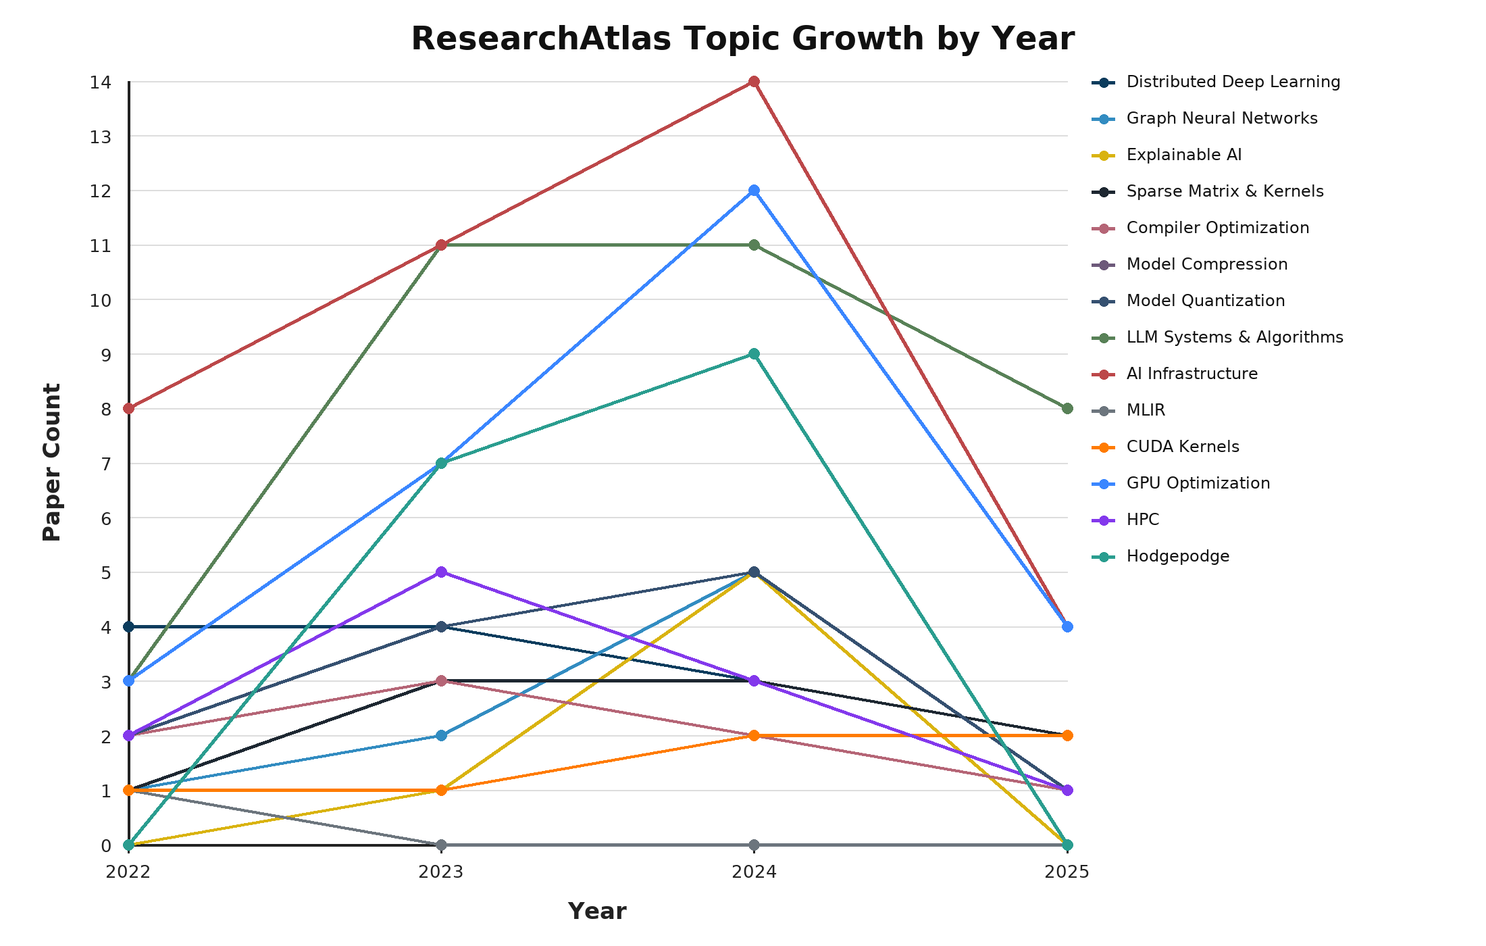
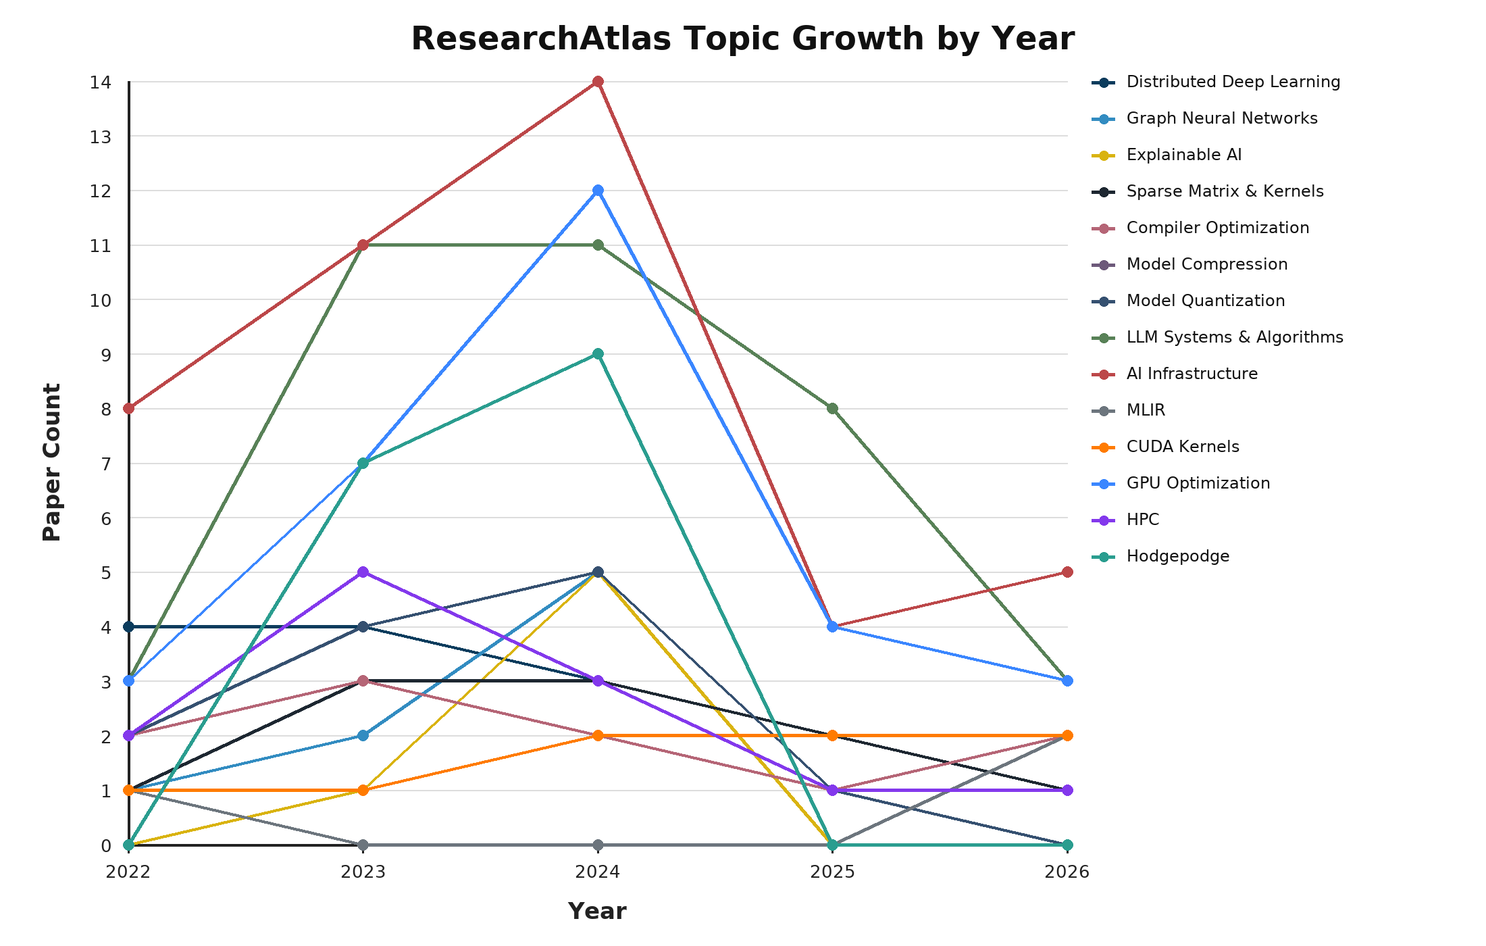
Add papers for 2026 on AI systems and compilers

diff --git a/figures/generate_topic_growth.py b/figures/generate_topic_growth.py
@@ -11,7 +11,9 @@ FIGURES_DIR = ROOT / "figures"
 OUTPUT_PATH = FIGURES_DIR / "topic_growth_by_year.png"
 TOPICS_PATH = ROOT / "TOPICS.md"
 
-YEARS = ["2022", "2023", "2024", "2025"]
+YEARS = sorted(
+    [path.name for path in ROOT.iterdir() if path.is_dir() and re.fullmatch(r"20\d{2}", path.name)]
+)
 COLORS = [
     "#0B3C5D",
     "#328CC1",
@@ -60,7 +62,7 @@ def load_topics() -> list[str]:
 
 
 def count_topics(topics: list[str]) -> dict[str, list[int]]:
-    counts = {topic: [0, 0, 0, 0] for topic in topics}
+    counts = {topic: [0 for _ in YEARS] for topic in topics}
     for paper_file in sorted(ROOT.glob("20*/**/PAPERS.md")):
         year = paper_file.parts[-3]
         if year not in YEARS:

diff --git a/2026/Compiler/PAPERS.md b/2026/Compiler/PAPERS.md
@@ -1,0 +1,67 @@
+# 2026 Compiler Papers
+
+## [PolyBlocks: A Compiler Infrastructure for AI Chips and Programming Frameworks]
+
+- **Authors:** Uday Bondhugula, Akshay Baviskar, Navdeep Katel, Vimal Patel, Anoop JS, Arnab Dutta
+- **Venue:** arXiv 2026
+- **Year:** 2026
+- **Tags:** Compiler Optimization, MLIR, AI Infrastructure
+- **Paper Link:** https://arxiv.org/abs/2603.06731
+- **Code Link:** N/A
+
+### Short Summary
+PolyBlocks presents a modular MLIR-based compiler infrastructure intended to be reusable across multiple AI frameworks and target chips. The work centers on pass pipelines that compose loop/SSA transformations with lightweight affine analysis and analytical cost models. It includes multi-level tiling, fusion, scratchpad usage, matrix-unit mapping, and attention-layer fusion among its key optimizations. The design goal is to minimize per-chip compiler reimplementation by reusing common infrastructure and specializing pipelines where needed. The paper evaluates PyTorch and JAX JIT scenarios on NVIDIA GPUs to compare with mainstream compiler stacks. For this atlas, PolyBlocks is a 2026 compiler contribution with direct relevance to MLIR-centered AI code generation.
+
+### Core Innovation
+- Reusable MLIR pass-pipeline architecture for both AI frameworks and heterogeneous AI chips.
+- Analytical-model-guided transformation selection over loop-nest and SSA representations.
+- Emphasis on reusable infrastructure rather than one-off backend-specific optimization logic.
+
+### Technical Approach
+- High-level framework graphs are lowered into MLIR IR where transformation pipelines are applied.
+- Pipelines combine tiling, fusion, locality optimization, and hardware mapping passes.
+- Cost models and heuristics coordinate pass ordering and parameterization for target hardware.
+- The stack supports generation down to low-level target-specific intrinsics.
+
+### Results
+- The paper reports matching or outperforming Torch Inductor and XLA in several evaluated cases.
+- For operators such as matmul and convolution, generated kernels are reported as competitive with vendor-tuned libraries or hand-written kernels.
+- Results indicate the architecture can retain performance while improving portability and reuse.
+
+### Potential Drawbacks
+- Tuning and heuristic robustness can vary across unseen hardware targets.
+- Competitive results in selected cases do not guarantee uniform wins across all workloads.
+- The operational complexity of maintaining broad pass pipelines remains non-trivial.
+
+## [Hexagon-MLIR: An AI Compilation Stack For Qualcomm's Neural Processing Units (NPUs)]
+
+- **Authors:** Mohammed Javed Absar, Muthu Baskaran, Abhikrant Sharma, Abhilash Bhandari, Ankit Aggarwal, Arun Rangasamy, Dibyendu Das, Fateme Hosseini, Franck Slama, Iulian Brumar, Jyotsna Verma, Krishnaprasad Bindumadhavan, et al.
+- **Venue:** arXiv 2026
+- **Year:** 2026
+- **Tags:** Compiler Optimization, MLIR, AI Infrastructure
+- **Paper Link:** https://arxiv.org/abs/2602.19762
+- **Code Link:** https://github.com/qualcomm/hexagon-mlir
+
+### Short Summary
+Hexagon-MLIR introduces an open-source MLIR-based stack targeting Qualcomm Hexagon NPUs with support for lowering both Triton kernels and PyTorch model subgraphs. The paper emphasizes a structured pass sequence that exploits NPU architectural features for AI acceleration. A notable design point is generation of mega-kernels that improve data locality in tightly coupled memory and reduce bandwidth bottlenecks. The work is positioned as complementary to commercial toolchains, giving developers a flexible open path for compiler innovation. It is explicitly presented as an ongoing effort, with additional optimization work planned. Within ResearchAtlas, Hexagon-MLIR is a practical 2026 compiler-systems entry bridging MLIR, Triton, and NPU deployment.
+
+### Core Innovation
+- Unified MLIR-based lowering path for Triton kernels and PyTorch workloads onto Hexagon NPUs.
+- Mega-kernel generation strategy to increase locality in NPU tightly coupled memory.
+- Open-source compiler path that complements proprietary deployment stacks.
+
+### Technical Approach
+- The compiler applies a sequence of MLIR passes tuned to Hexagon NPU capabilities.
+- Triton kernels and selected framework subgraphs are lowered into target binaries through automated pipelines.
+- Locality-oriented transformations attempt to reduce bandwidth pressure by maximizing on-chip reuse.
+- The system emphasizes kernel-to-binary automation for faster deployment iteration.
+
+### Results
+- The paper reports functional end-to-end compilation and deployment support for targeted workloads.
+- It reports improved locality and reduced bandwidth bottlenecks through mega-kernel generation relative to library-style approaches.
+- As a work in progress, results are presented as early but promising for open NPU compilation.
+
+### Potential Drawbacks
+- The stack is explicitly work-in-progress, so feature completeness is evolving.
+- NPU-specific optimizations may limit portability across other accelerator families.
+- Performance characterization remains less exhaustive than long-mature GPU compiler stacks.

diff --git a/2026/System/PAPERS.md b/2026/System/PAPERS.md
@@ -1,0 +1,67 @@
+# 2026 System Papers
+
+## [FlashAttention-4: Algorithm and Kernel Pipelining Co-Design for Asymmetric Hardware Scaling]
+
+- **Authors:** Ted Zadouri, Markus Hoehnerbach, Jay Shah, Timmy Liu, Vijay Thakkar, Tri Dao
+- **Venue:** arXiv 2026
+- **Year:** 2026
+- **Tags:** CUDA Kernels, GPU Optimization, LLM Systems & Algorithms
+- **Paper Link:** https://arxiv.org/abs/2603.05451
+- **Code Link:** https://github.com/Dao-AILab/flash-attention
+
+### Short Summary
+FlashAttention-4 targets the new bottlenecks that appear on Blackwell GPUs, where tensor-core throughput scales faster than other units. The paper argues that optimizations tuned for Hopper are no longer sufficient for the B200 and GB200 generation. It co-designs algorithmic updates and kernel pipelines to keep attention throughput high under this asymmetric scaling profile. The implementation emphasizes asynchronous matrix operations, larger tiling strategies, and reduction of non-matmul overheads in softmax-related work. The authors also implement the stack in CuTe-DSL embedded in Python to improve iteration speed for kernel development. For ResearchAtlas, this is a high-signal 2026 kernel-systems paper because it links hardware shifts directly to attention-runtime redesign.
+
+### Core Innovation
+- Co-design of attention algorithm and kernel pipeline for Blackwell-era asymmetric hardware scaling.
+- Reduction of non-matmul bottlenecks through software-emulated exponential and conditional softmax rescaling.
+- CuTe-DSL implementation that substantially reduces compile-time overhead while preserving kernel expressivity.
+
+### Technical Approach
+- The method redesigns the forward/backward pipelines around fully asynchronous MMA operations and larger tiles.
+- It uses software-level reformulation for expensive softmax-path operations so tensor cores stay better utilized.
+- It leverages tensor memory plus 2-CTA MMA mode to reduce shared-memory traffic and backward-pass atomic pressure.
+- The implementation is built in Python-hosted CuTe-DSL rather than traditional template-heavy C++ kernels.
+
+### Results
+- The paper reports up to 1.3x speedup versus cuDNN 9.13 and up to 2.7x versus Triton on B200 with BF16.
+- Peak reported performance reaches 1613 TFLOPs/s (71% utilization).
+- The DSL-based implementation reports approximately 20-30x faster compile times than comparable C++ template workflows.
+
+### Potential Drawbacks
+- Gains are tied to Blackwell-specific hardware characteristics and may not transfer uniformly to older GPUs.
+- Kernel complexity and specialized pipelining increase maintenance cost.
+- Production integration still depends on ecosystem alignment around CuTe-DSL deployment practices.
+
+## [PackInfer: Compute- and I/O-Efficient Attention for Batched LLM Inference]
+
+- **Authors:** Rui Ning, Wei Zhang, Fan Lai
+- **Venue:** arXiv 2026
+- **Year:** 2026
+- **Tags:** AI Infrastructure, GPU Optimization, LLM Systems & Algorithms
+- **Paper Link:** https://arxiv.org/abs/2602.06072
+- **Code Link:** N/A
+
+### Short Summary
+PackInfer addresses a practical serving gap: most attention optimizations focus on single-request kernels, while production inference batches heterogeneous request lengths. The paper shows this mismatch causes compute and I/O imbalance, request stragglers, and low GPU utilization in real serving pipelines. It introduces a kernel-level framework that explicitly packs and groups requests for load-balanced batched execution. The system also reorganizes KV-cache layouts to improve locality and reduce redundant movement as generation progresses. This makes the contribution relevant to deployment settings where throughput and tail latency both matter. In the 2026 atlas, PackInfer is a representative systems paper on batched attention efficiency rather than isolated kernel microbenchmarks.
+
+### Core Innovation
+- Compute- and I/O-aware batched attention execution for heterogeneous request sets.
+- Request packing strategy that improves kernel occupancy under mixed sequence lengths.
+- KV-cache grouping and layout reorganization for lower memory overhead during generation.
+
+### Technical Approach
+- Requests are grouped into load-balanced execution packs to reduce straggler effects.
+- Attention kernels are built over packed query-key regions to eliminate redundant computation.
+- I/O-aware grouping colocates shared-prefix requests and reorganizes KV-cache storage into group-contiguous layouts.
+- The runtime adapts grouping as sequence lengths evolve during autoregressive decoding.
+
+### Results
+- On real-world workloads, the paper reports 13.0-20.1% lower inference latency.
+- It reports around 20% throughput improvement over a FlashAttention-based state-of-the-art baseline.
+- Reported gains come from combined compute balancing and cache-I/O optimization.
+
+### Potential Drawbacks
+- Real gains depend on workload heterogeneity and batching policy quality.
+- Additional packing logic adds scheduler complexity in serving stacks.
+- Integration may require invasive KV-cache layout changes in existing runtimes.

diff --git a/2026/Distributed/PAPERS.md b/2026/Distributed/PAPERS.md
@@ -1,0 +1,34 @@
+# 2026 Distributed Papers
+
+## [Scalable Training of Mixture-of-Experts Models with Megatron Core]
+
+- **Authors:** Zijie Yan, Hongxiao Bai, Xin Yao, Dennis Liu, Tong Liu, Hongbin Liu, Pingtian Li, Evan Wu, Shiqing Fan, Li Tao, Robin Zhang, Yuzhong Wang, et al.
+- **Venue:** arXiv 2026
+- **Year:** 2026
+- **Tags:** Distributed Deep Learning, AI Infrastructure, HPC
+- **Paper Link:** https://arxiv.org/abs/2603.07685
+- **Code Link:** https://github.com/NVIDIA/Megatron-LM
+
+### Short Summary
+This report studies system-level scaling of Mixture-of-Experts training, where sparse activation shifts bottlenecks across memory, communication, and compute. The core argument is that isolated optimization of one dimension often creates pressure in another, so end-to-end co-design is required. Megatron Core integrates optimizations spanning fine-grained recomputation/offloading, optimized dispatch/overlap, and compute-kernel improvements such as grouped GEMM and fusions. The paper also covers parallel-folding strategies and low-precision modes such as FP8 and NVFP4 for large-scale MoE workloads. It targets production-scale training, including long-context configurations and large GPU clusters. For atlas coverage, this is a strong 2026 distributed systems reference for MoE training infrastructure.
+
+### Core Innovation
+- End-to-end co-design of memory, communication, and compute optimizations for MoE training.
+- Parallel Folding framework for flexible multi-dimensional parallel strategy composition.
+- Production-focused support for low-precision and long-context MoE scaling.
+
+### Technical Approach
+- Memory pressure is reduced through mechanisms such as fine-grained recomputation and offloading.
+- Communication paths use optimized expert dispatch and overlap to reduce distributed synchronization cost.
+- Compute throughput is improved using grouped GEMM, fused kernels, and CUDA Graph execution.
+- The framework composes these components for large-cluster MoE runs with multiple parallel dimensions.
+
+### Results
+- On NVIDIA GB300/GB200, reported performance includes 1,233/1,048 TFLOPS per GPU for DeepSeek-V3-685B.
+- For Qwen3-235B, the paper reports 974/919 TFLOPS per GPU on GB300/GB200.
+- The report states successful use from billion- to trillion-parameter MoE training across up to thousands of GPUs.
+
+### Potential Drawbacks
+- Reported performance depends on highly optimized NVIDIA hardware/software environments.
+- Engineering complexity is substantial when composing multiple parallel and precision modes.
+- Portability to non-NVIDIA stacks is not established in this report.

diff --git a/2026/Others/PAPERS.md b/2026/Others/PAPERS.md
@@ -1,0 +1,34 @@
+# 2026 Other Papers
+
+## [TiledAttention: a CUDA Tile SDPA Kernel for PyTorch]
+
+- **Authors:** Taimur Khan
+- **Venue:** arXiv 2026
+- **Year:** 2026
+- **Tags:** CUDA Kernels, GPU Optimization, Sparse Matrix & Kernels
+- **Paper Link:** https://arxiv.org/abs/2603.01960
+- **Code Link:** https://github.com/thisistaimur/TiledAttention
+
+### Short Summary
+TiledAttention provides a PyTorch-callable SDPA forward operator implemented in cuTile Python (TileIR), targeting rapid kernel research workflows on NVIDIA GPUs. The paper focuses on making kernel schedule changes easy from Python while preserving realistic behavior via online softmax and tiled streaming of keys and values. This directly addresses a tooling gap between very fast but hard-to-edit production kernels and easy-to-edit but slow research prototypes. The reported implementation enables reproducible benchmarking across sequence lengths, head dimensions, and FP16/BF16 settings. While it is not positioned as a universal production replacement, it demonstrates strong practical speedups over eager attention paths. In the atlas, this paper fits as a kernel-research enabler that can accelerate experimentation velocity.
+
+### Core Innovation
+- Editable, Python-level SDPA kernel research stack with realistic tiled execution behavior.
+- Integration path that keeps kernels directly callable from PyTorch workflows.
+- Balance between performance and modifiability for rapid attention-kernel iteration.
+
+### Technical Approach
+- SDPA forward is implemented with tiled key/value streaming and online softmax.
+- Schedules (tile size, staging, shared-memory layout) are exposed for direct Python-level modification.
+- A reproducible benchmark harness evaluates behavior against PyTorch SDPA auto-dispatch and unfused baselines.
+- The approach emphasizes fast experimentation over exhaustive production specialization.
+
+### Results
+- The paper reports large speedups over standard eager attention execution paths.
+- It shows practical competitiveness for research workflows while noting that highly fused production kernels remain stronger overall.
+- Results support the claim that schedule-level editability can coexist with meaningful kernel performance.
+
+### Potential Drawbacks
+- The strongest production fused kernels still outperform it in many settings.
+- The contribution is currently centered on forward SDPA and research experimentation use cases.
+- Performance portability beyond the tested GPU/software stack is not yet established.

diff --git a/2026/AI/PAPERS.md b/2026/AI/PAPERS.md
@@ -1,0 +1,34 @@
+# 2026 AI Papers
+
+## [MoEless: Efficient MoE LLM Serving via Serverless Computing]
+
+- **Authors:** Hanfei Yu, Bei Ouyang, Shwai He, Ang Li, Hao Wang
+- **Venue:** arXiv 2026
+- **Year:** 2026
+- **Tags:** AI Infrastructure, Distributed Deep Learning, LLM Systems & Algorithms
+- **Paper Link:** https://arxiv.org/abs/2603.06350
+- **Code Link:** N/A
+
+### Short Summary
+MoEless focuses on inference-time load imbalance in expert-parallel MoE serving, where a small subset of experts can become persistent stragglers. The paper argues static serverful deployments are a poor fit because expert demand changes quickly and unevenly over time. It introduces a serverless MoE serving framework that scales experts elastically and places them to improve locality. The system uses lightweight predictors to estimate incoming expert load and proactively detect bottleneck experts. This combines systems scheduling and serving elasticity to reduce latency and cost in practical MoE inference. In the 2026 update, MoEless is a relevant AI-infrastructure paper connecting MoE algorithms to production serving behavior.
+
+### Core Innovation
+- First serverless-oriented framework targeting MoE expert-load imbalance during LLM serving.
+- Layer-aware expert-load prediction used to preemptively identify and mitigate stragglers.
+- Placement and scaling policies designed to balance expert demand while preserving locality.
+
+### Technical Approach
+- The runtime predicts per-expert request pressure before bottlenecks fully materialize.
+- It scales and places serverless experts using policies that trade off locality, utilization, and load balance.
+- The framework is implemented on top of Megatron-LM and evaluated under realistic open-source MoE workloads.
+- Serving control is coordinated across experts and GPUs to limit queueing collapse around hot experts.
+
+### Results
+- On the reported testbed and workloads, MoEless reports 43% lower inference latency.
+- The paper reports 84% lower inference cost compared with its chosen state-of-the-art baselines.
+- Results indicate that elasticity-aware expert placement can materially improve MoE serving efficiency.
+
+### Potential Drawbacks
+- Serverless cold-start and orchestration overhead can offset gains in some deployment environments.
+- Predictor error may reduce effectiveness under rapidly shifting traffic patterns.
+- Operational complexity may increase relative to stable, serverful deployments.

diff --git a/CATALOGUA.md b/CATALOGUA.md
@@ -173,3 +173,14 @@ Affiliations are recorded as `N/A` when they were not explicitly verified in the
 - BitNet b1.58 2B4T Technical Report, Microsoft Research et al.. Affiliations: N/A. [Model Quantization, Model Compression, GPU Optimization]
 - DeepEP: an Efficient Communication Library for MoE Training and Inference, DeepSeek-AI et al.. Affiliations: N/A. [Distributed Deep Learning, AI Infrastructure, HPC]
 - FlashInfer: Efficient and Customizable Attention Engine for LLM Inference Serving, FlashInfer Team et al.. Affiliations: N/A. [LLM Systems & Algorithms, CUDA Kernels, GPU Optimization]
+
+## 2026
+
+### arXiv 2026
+- FlashAttention-4: Algorithm and Kernel Pipelining Co-Design for Asymmetric Hardware Scaling, Ted Zadouri, Markus Hoehnerbach, Jay Shah, Timmy Liu, Vijay Thakkar, Tri Dao. Affiliations: N/A. [CUDA Kernels, GPU Optimization, LLM Systems & Algorithms]
+- Hexagon-MLIR: An AI Compilation Stack For Qualcomm's Neural Processing Units (NPUs), Mohammed Javed Absar, Muthu Baskaran, Abhikrant Sharma, Abhilash Bhandari, Ankit Aggarwal, Arun Rangasamy, Dibyendu Das, Fateme Hosseini, Franck Slama, Iulian Brumar, Jyotsna Verma, Krishnaprasad Bindumadhavan, et al.. Affiliations: N/A. [Compiler Optimization, MLIR, AI Infrastructure]
+- MoEless: Efficient MoE LLM Serving via Serverless Computing, Hanfei Yu, Bei Ouyang, Shwai He, Ang Li, Hao Wang. Affiliations: N/A. [AI Infrastructure, Distributed Deep Learning, LLM Systems & Algorithms]
+- PackInfer: Compute- and I/O-Efficient Attention for Batched LLM Inference, Rui Ning, Wei Zhang, Fan Lai. Affiliations: N/A. [AI Infrastructure, GPU Optimization, LLM Systems & Algorithms]
+- PolyBlocks: A Compiler Infrastructure for AI Chips and Programming Frameworks, Uday Bondhugula, Akshay Baviskar, Navdeep Katel, Vimal Patel, Anoop JS, Arnab Dutta. Affiliations: N/A. [Compiler Optimization, MLIR, AI Infrastructure]
+- Scalable Training of Mixture-of-Experts Models with Megatron Core, Zijie Yan, Hongxiao Bai, Xin Yao, Dennis Liu, Tong Liu, Hongbin Liu, Pingtian Li, Evan Wu, Shiqing Fan, Li Tao, Robin Zhang, Yuzhong Wang, et al.. Affiliations: N/A. [Distributed Deep Learning, AI Infrastructure, HPC]
+- TiledAttention: a CUDA Tile SDPA Kernel for PyTorch, Taimur Khan. Affiliations: N/A. [CUDA Kernels, GPU Optimization, Sparse Matrix & Kernels]

diff --git a/README.md b/README.md
@@ -3,9 +3,9 @@
 ResearchAtlas is a curated paper atlas for systems, infrastructure, and algorithms behind modern AI. The repository is organized by year and broad technical area, with a venue-coverage pass that now represents every conference listed in `COFERENCES.md`.
 
 ## Status
-- Last updated: 2026-03-03
-- Years covered: 2022-2025
-- Total papers tracked: 75
+- Last updated: 2026-03-11
+- Years covered: 2022-2026
+- Total papers tracked: 82
 - Awesome Papers tracked: 17
 - Test-of-Time / Influential awards tracked: 5
 - Conference venues represented: 31 / 31
@@ -18,25 +18,26 @@ ResearchAtlas is a curated paper atlas for systems, infrastructure, and algorith
 | 2023 | 25 | 3 | 5 | 5 | 2 | 10 |
 | 2024 | 29 | 7 | 4 | 5 | 3 | 10 |
 | 2025 | 10 | 2 | 1 | 3 | 1 | 3 |
+| 2026 | 7 | 2 | 1 | 1 | 2 | 1 |
 
 ## Topic Coverage Table
 
-| Topic | 2022 | 2023 | 2024 | 2025 |
-| --- | ---: | ---: | ---: | ---: |
-| Distributed Deep Learning | 4 | 4 | 3 | 1 |
-| Graph Neural Networks | 1 | 2 | 5 | 0 |
-| Explainable AI | 0 | 1 | 5 | 0 |
-| Sparse Matrix & Kernels | 1 | 3 | 3 | 2 |
-| Compiler Optimization | 2 | 3 | 2 | 1 |
-| Model Compression | 2 | 5 | 3 | 1 |
-| Model Quantization | 2 | 4 | 5 | 1 |
-| Hodgepodge | 0 | 7 | 9 | 0 |
-| LLM Systems & Algorithms | 3 | 11 | 11 | 8 |
-| AI Infrastructure | 8 | 11 | 14 | 4 |
-| MLIR | 1 | 0 | 0 | 0 |
-| CUDA Kernels | 1 | 1 | 2 | 2 |
-| GPU Optimization | 3 | 7 | 12 | 4 |
-| HPC | 2 | 5 | 3 | 1 |
+| Topic | 2022 | 2023 | 2024 | 2025 | 2026 |
+| --- | ---: | ---: | ---: | ---: | ---: |
+| Distributed Deep Learning | 4 | 4 | 3 | 1 | 2 |
+| Graph Neural Networks | 1 | 2 | 5 | 0 | 0 |
+| Explainable AI | 0 | 1 | 5 | 0 | 0 |
+| Sparse Matrix & Kernels | 1 | 3 | 3 | 2 | 1 |
+| Compiler Optimization | 2 | 3 | 2 | 1 | 2 |
+| Model Compression | 2 | 5 | 3 | 1 | 0 |
+| Model Quantization | 2 | 4 | 5 | 1 | 0 |
+| Hodgepodge | 0 | 7 | 9 | 0 | 0 |
+| LLM Systems & Algorithms | 3 | 11 | 11 | 8 | 3 |
+| AI Infrastructure | 8 | 11 | 14 | 4 | 5 |
+| MLIR | 1 | 0 | 0 | 0 | 2 |
+| CUDA Kernels | 1 | 1 | 2 | 2 | 2 |
+| GPU Optimization | 3 | 7 | 12 | 4 | 3 |
+| HPC | 2 | 5 | 3 | 1 | 1 |
 
 ## Catalog
 
@@ -57,6 +58,7 @@ figures/
 2023/
 2024/
 2025/
+2026/
 TOPICS.md
 COFERENCES.md
 AUTHORS&GROUPS.md

diff --git a/AUTHORS&GROUPS.md b/AUTHORS&GROUPS.md
@@ -71,3 +71,23 @@ This file is initialized in a conservative mode for the first run. Only fields t
 - Main Areas: reasoning models, large-scale pretraining, LLM algorithms
 - Total Citations: N/A
 - Top Papers: DeepSeek-V3, DeepSeek-R1
+
+## Uday Bondhugula
+- Field: compiler optimization, MLIR, code generation for AI accelerators
+- Affiliation: Indian Institute of Science (historical) / Plural Technology (historical and startup context)
+- Google Scholar Citations: N/A
+- h-index: N/A
+- Main Contributions: polyhedral compilation and MLIR-based AI compiler infrastructure (PolyBlocks)
+- Papers Per Year: 2026 (1)
+
+## NVIDIA Megatron Core Team
+- University/Company: NVIDIA
+- Main Areas: distributed MoE training, large-scale model systems, low-precision training
+- Total Citations: N/A
+- Top Papers: Scalable Training of Mixture-of-Experts Models with Megatron Core
+
+## Qualcomm AI Compiler Group
+- University/Company: Qualcomm
+- Main Areas: NPU compilation, MLIR lowering, Triton and PyTorch kernel deployment
+- Total Citations: N/A
+- Top Papers: Hexagon-MLIR

diff --git a/Awesome-Papers/2026/NOTES.md b/Awesome-Papers/2026/NOTES.md
@@ -1,0 +1,6 @@
+# Notes 2026
+
+### Trend: Early 2026 Focus On MoE Systems And Compiler Portability
+- MoE work is increasingly split between training-scale optimization and serving-time elasticity.
+- MLIR-based compiler stacks are expanding from GPU-centric paths toward NPU-oriented deployment.
+- Attention-kernel research is emphasizing hardware-generation-aware redesign plus faster iteration workflows.

diff --git a/Awesome-Papers/2026/PAPERS.md b/Awesome-Papers/2026/PAPERS.md
@@ -1,0 +1,3 @@
+# Awesome Papers 2026
+
+No 2026 entries have been promoted yet under the strict best-paper / field-defining criteria.
